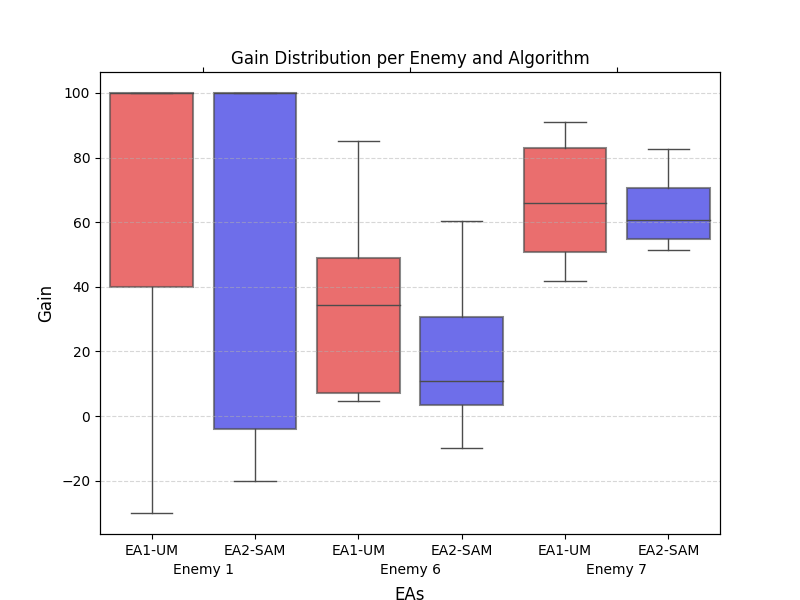
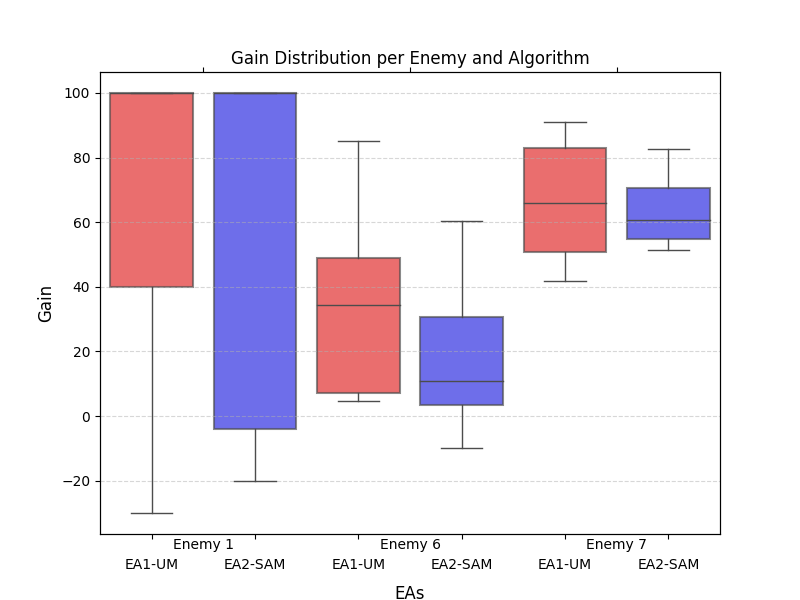
v1 boxplot (as labels)

Changed region(s): [[0.4062, 0.9, 0.625, 1.0], [0.6562, 0.9, 0.875, 0.96], [0.1562, 0.9, 0.375, 0.96]]

diff --git a/EA-1Boxplot.py b/EA-1Boxplot.py
@@ -15,11 +15,11 @@ fig, ax = plt.subplots(figsize=(8, 6))
 sns.boxplot(df['Data'], palette=custom_cmap, boxprops=dict(alpha=0.65))
 ax.set_title(f'Gain Distribution per Enemy and Algorithm')
 ax.set_ylabel('Gain', fontsize=12)
-ax.set_xlabel('EAs', fontsize=12, labelpad=15)
+ax.set_xlabel('EAs', fontsize=12, labelpad=10)
 
 ax.grid(axis='y', linestyle='--', alpha=0.5)
 original_labels = ['EA1-UM', 'EA2-SAM', 'EA1-UM', 'EA2-SAM', 'EA1-UM', 'EA2-SAM']
-ax.set_xticklabels(original_labels, y=-0.02)
+ax.set_xticklabels(original_labels, y=-0.03)
 for line in ax.lines:
     if len(line.get_xdata()) == 2:  # Median line has 2 x-values
         line.set(lw=1)  # Set the line width to make it bold
@@ -28,8 +28,8 @@ ax2 = ax.twiny()
 ax2.set_xlim(ax.get_xlim())
 grouped_x_positions = [0.5, 2.5, 4.5]
 ax2.set_xticks(grouped_x_positions)
-ax2.set_xticklabels(grouped_labels, y=-0.04, va='center')
-plt.savefig(f'EA_BOXPLOTS\Boxplots_EAvEA2_all_enemiesV2')
+ax2.set_xticklabels(grouped_labels, y=-0.045, va='center')
+plt.savefig(f'EA_BOXPLOTS\Boxplots_EAvEA2_all_enemiesV1')
 plt.show()
 
 
